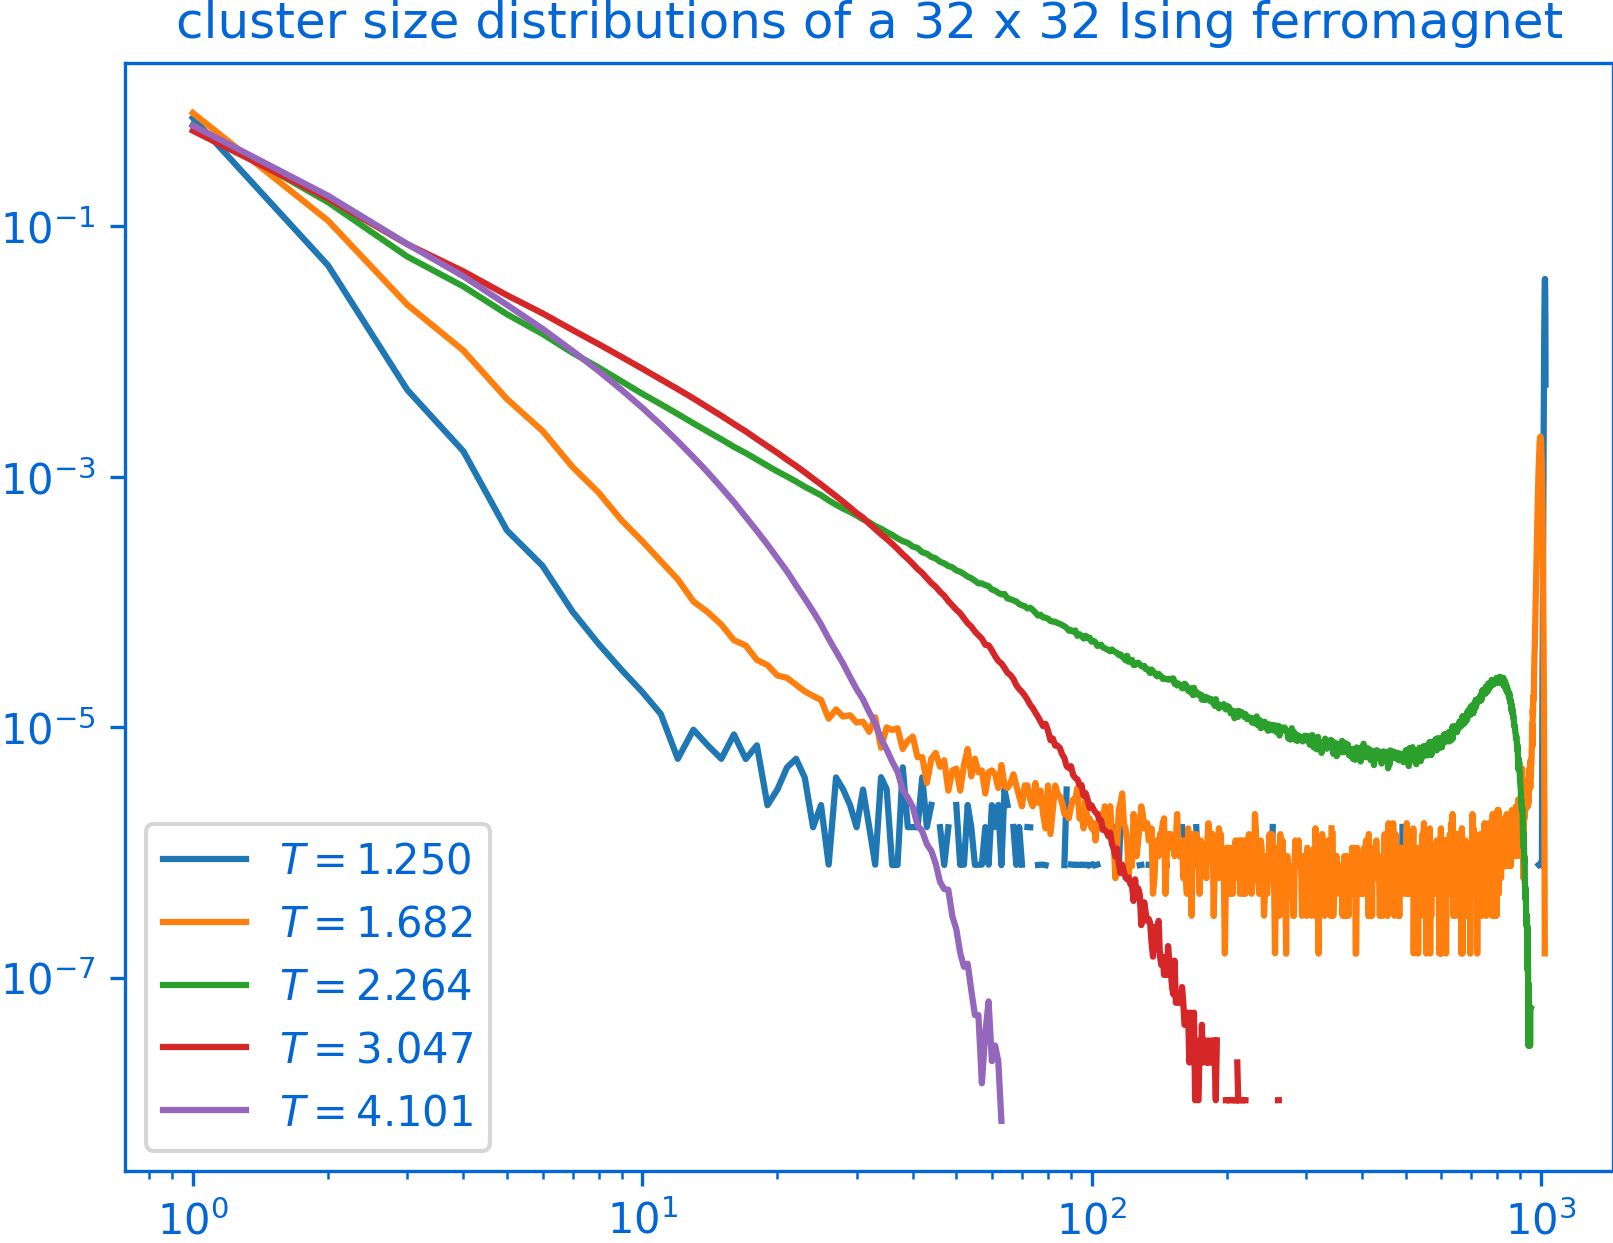
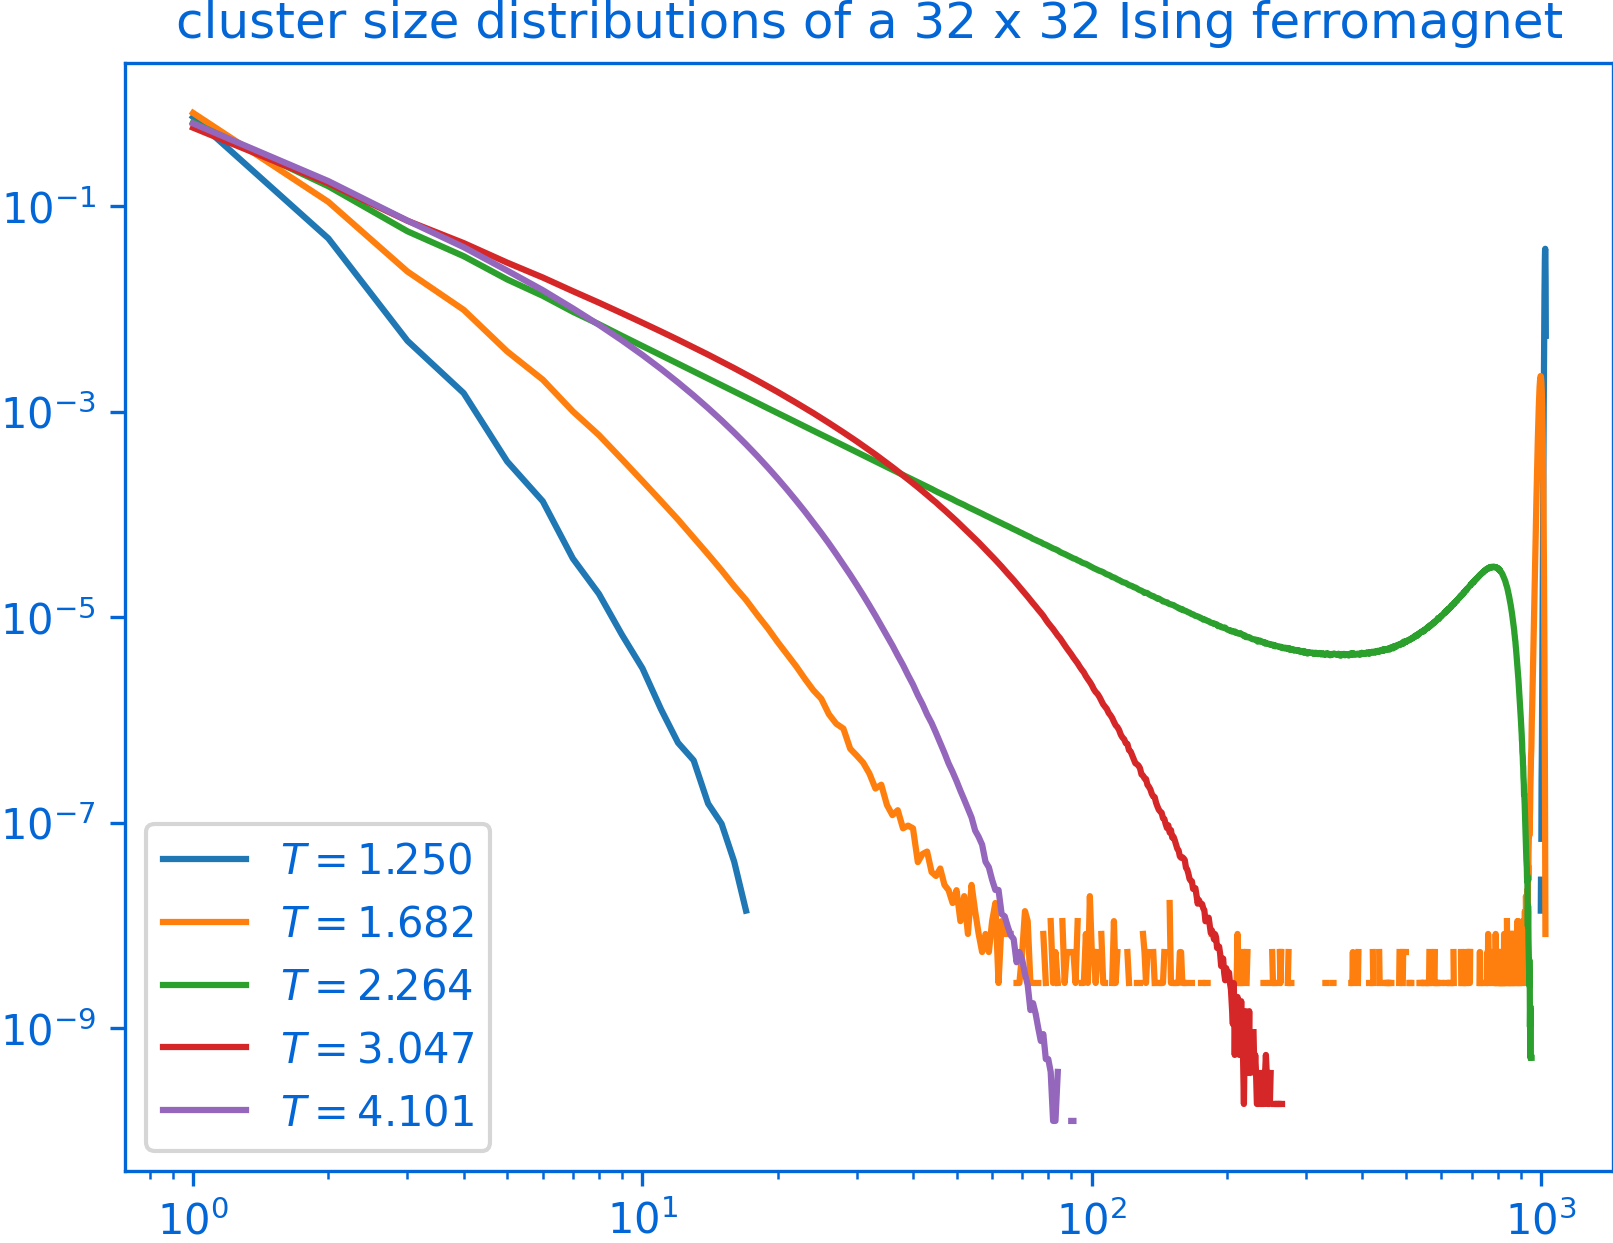
updated csd figure

diff --git a/docs/figure_generator.py b/docs/figure_generator.py
@@ -29,7 +29,10 @@ temperatures = np.geomspace(0.1, 10, 32)
 ising = IsingEnsemble(lattice_shape=(32, 32),
                       n_ensemble=32,
                       temperatures=temperatures)
-ising.sample(n_sweeps=2**22, cluster_update_interval=2**3, pt_interval=1)
+ising.sample(n_sweeps=2**22,
+             warmup_ratio=0.1,
+             cluster_update_interval=2**3,
+             pt_interval=2**3)
 
 # plot csds
 csds = ising.get_csds()[17:27:2].T
